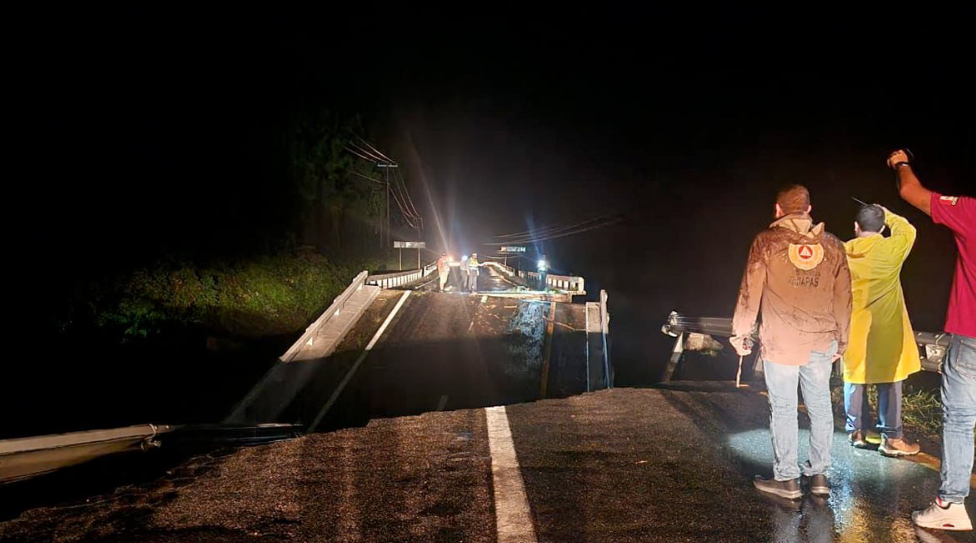
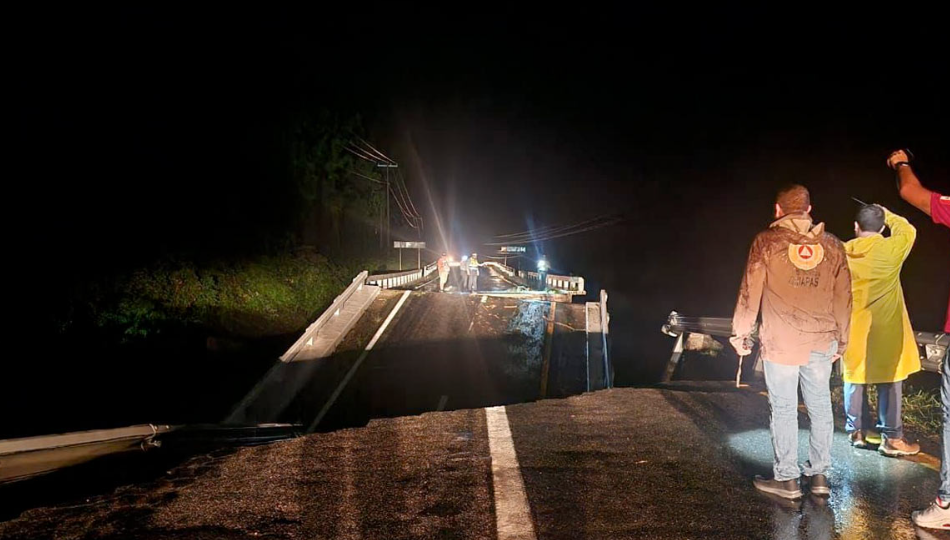
actualizacion correcion de leyenda

diff --git a/chapters/custom.css b/chapters/custom.css
@@ -1,0 +1,15 @@
+/* Para imágenes con figuras */
+.figure {
+  margin-bottom: 30px !important; /* Espacio después de cada figura */
+}
+
+/* Para las leyendas específicamente */
+figcaption {
+  margin-top: 10px !important;    /* Espacio entre imagen y leyenda */
+  margin-bottom: 20px !important; /* Espacio después de la leyenda */
+}
+
+/* Si usas múltiples imágenes en una celda */
+.figure:not(:last-child) {
+  margin-bottom: 40px !important; /* Espacio entre figuras */
+}
